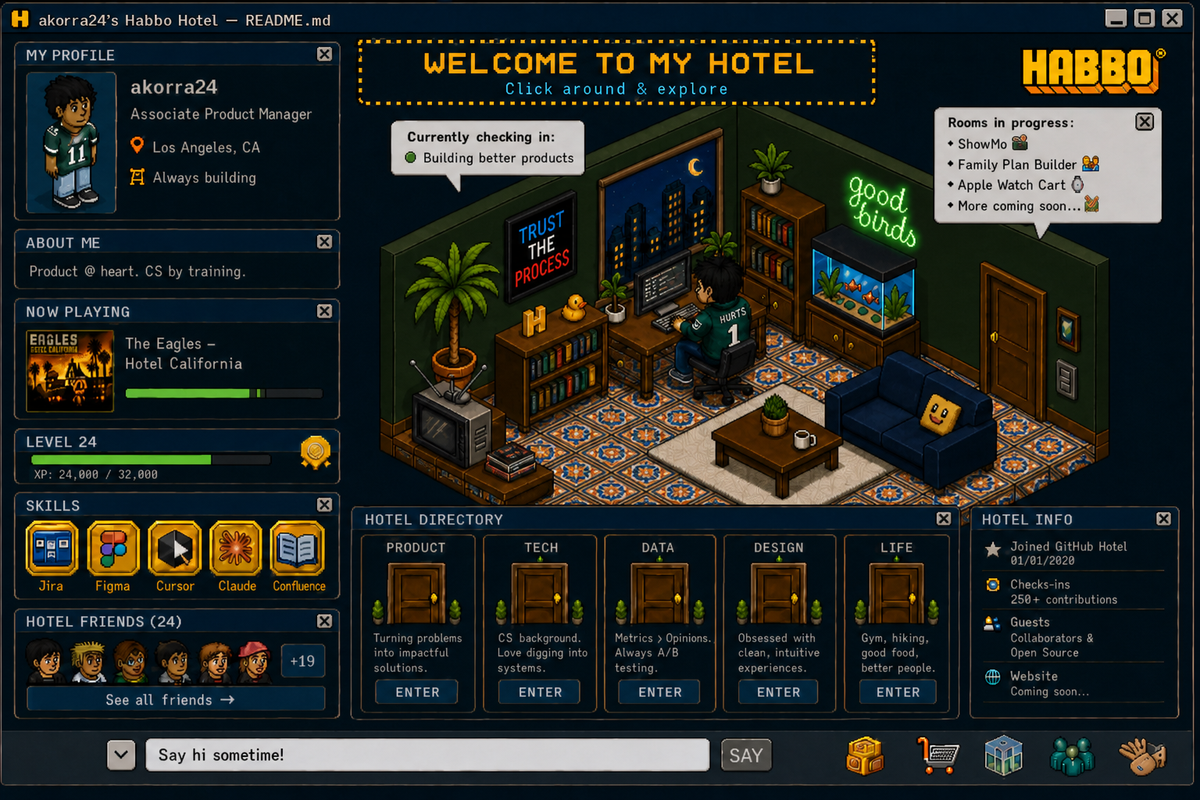
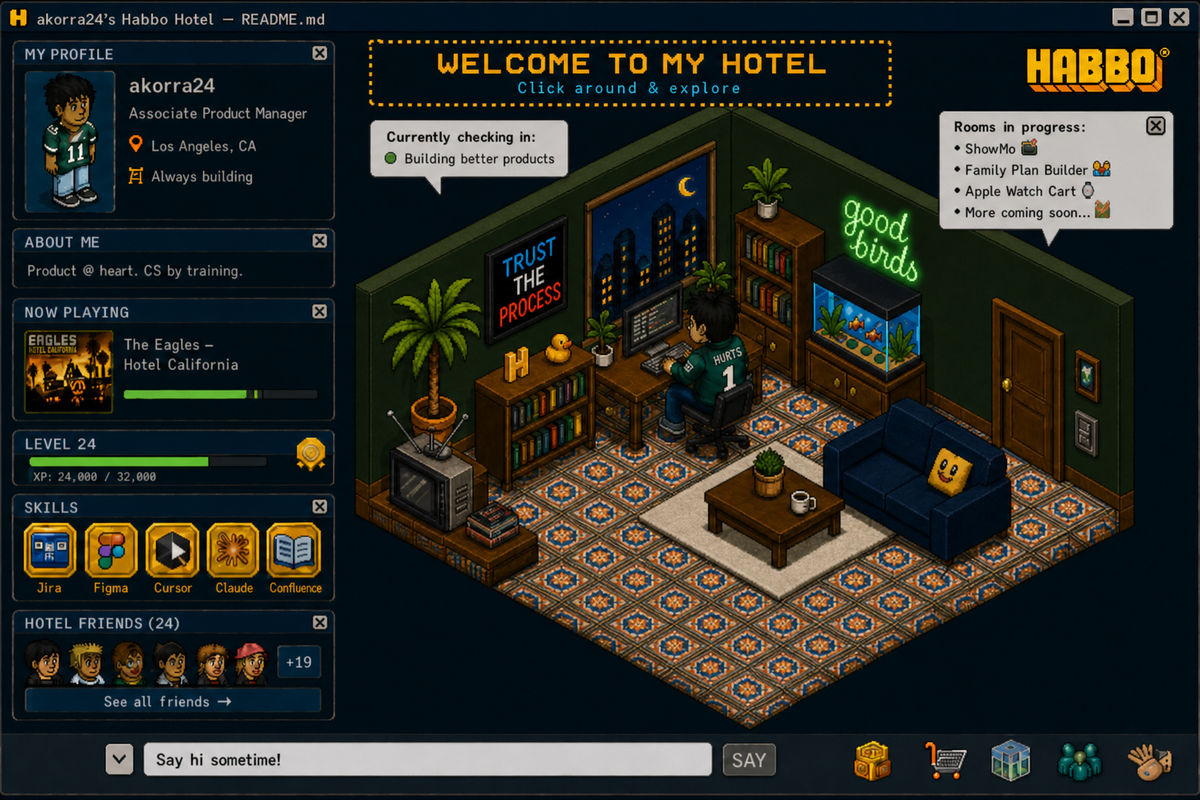
Trim the hotel profile to Product, Tech, Design, and Life rooms.

diff --git a/README.md b/README.md
@@ -1,7 +1,6 @@
 <!--
   akorra24's Habbo Hotel — GitHub profile README
   The unique visual is the full client screenshot in hotel-header.png.
-  Everything below is the clickable hotel: doors, rooms, guestbook.
 -->
 
 <p align="center">
@@ -16,7 +15,7 @@
 
 <table width="100%">
   <tr>
-    <td valign="top" width="20%" align="center">
+    <td valign="top" width="25%" align="center">
 
 <a href="#product-room"><img src="./assets/product-room.png" width="100%" alt="Product door" /></a>
 
@@ -25,7 +24,7 @@ Turning messy problems into simple, useful experiences.
 <a href="#product-room"><code>ENTER</code></a>
 
     </td>
-    <td valign="top" width="20%" align="center">
+    <td valign="top" width="25%" align="center">
 
 <a href="#tech-room"><img src="./assets/tech-room.png" width="100%" alt="Tech door" /></a>
 
@@ -34,16 +33,7 @@ CS background. I like knowing how the thing actually works.
 <a href="#tech-room"><code>ENTER</code></a>
 
     </td>
-    <td valign="top" width="20%" align="center">
-
-<a href="#data-room"><img src="./assets/data-room.png" width="100%" alt="Data door" /></a>
-
-Metrics &gt; opinions. Measure, learn, iterate.
-
-<a href="#data-room"><code>ENTER</code></a>
-
-    </td>
-    <td valign="top" width="20%" align="center">
+    <td valign="top" width="25%" align="center">
 
 <a href="#design-room"><img src="./assets/design-room.png" width="100%" alt="Design door" /></a>
 
@@ -52,7 +42,7 @@ Obsessed with clean, intuitive product experiences.
 <a href="#design-room"><code>ENTER</code></a>
 
     </td>
-    <td valign="top" width="20%" align="center">
+    <td valign="top" width="25%" align="center">
 
 <a href="#life-room"><img src="./assets/life-room.png" width="100%" alt="Life door" /></a>
 
@@ -88,22 +78,6 @@ Product strategy. Consumer eCommerce. Discovery → delivery. Experimentation. U
 
 I came into product through computer science, so I'm happiest when I can understand both the user problem and what is happening underneath the interface.
 
-**Inventory**
-
-`[ CODE ]` `[ APIs ]` `[ FIGMA ]` `[ DATA ]` `[ GIT ]` `[ AI ]`
-
-Software fundamentals, frontend systems, Git/GitHub, rapid prototyping, AI-assisted development, and sitting with engineering until the thing actually works.
-
----
-
-<a name="data-room"></a>
-
-## DATA ROOM
-
-`Metrics > opinions.`
-
-Funnels, conversion, behavioral analytics. Turn that into a hypothesis, a test, and a decision. Launch is when the learning starts — not when the argument ends.
-
 ---
 
 <a name="design-room"></a>
@@ -116,31 +90,10 @@ UX, wireframes, Figma, responsive experiences, prototypes — and a lot of time 
 
 ---
 
-<a name="projects-room"></a>
-
-## PROJECT ROOMS
-
-Rooms in progress.
-
-**ShowMo** — What should I watch next? Discover movies and shows through your own taste and people you trust. `under construction`
-
-**Family Plan Builder** — Making multi-line / family plan choices feel obvious.
-
-**Apple Watch Cart** — Purchase flow work across devices, cart, and checkout.
-
-<table>
-  <tr>
-    <td><a href="https://github.com/akorra24/showmo"><code>[ SHOWMO REPO ]</code></a></td>
-    <td><code>[ LIVE DEMO — soon ]</code></td>
-  </tr>
-</table>
-
----
-
-## ACHIEVEMENTS
+## PROGRAMS
 
 <p align="center">
-  <img src="./assets/achievements.png" width="100%" alt="Skills: Jira, Figma, Cursor, Claude, Confluence" />
+  <img src="./assets/achievements.png" width="100%" alt="Programs: Jira, Figma, Cursor, Claude, Confluence" />
 </p>
 
 ---
@@ -161,63 +114,6 @@ Hotel radio changes frequently.</p>
 ## LIFE ROOM
 
 Philadelphia sports. Fantasy football. Hiking. A fishtank. A 2000s BMW. Side projects and random builds that seemed interesting at 1am.
-
----
-
-## HOTEL INFO
-
-<table width="100%">
-  <tr>
-    <td valign="top" width="40%" align="center">
-
-<img src="./assets/hotel-info.png" width="100%" alt="Hotel info" />
-
-    </td>
-    <td valign="top" width="60%" align="center">
-
-**Hotel Friends**
-
-<img src="./assets/hotel-friends.png" width="100%" alt="Hotel friends" />
-
-    </td>
-  </tr>
-</table>
-
-<details>
-<summary>Open Hotel Info</summary>
-
-**Guest:** akorra24
-
-**Class:** Associate Product Manager / Builder
-
-**Location:** Los Angeles, CA
-
-**Motto:** Always building.
-
-**Mission:** Build useful things and understand why they work.
-
-</details>
-
-<details>
-<summary>Hotel Directory Help</summary>
-
-Click any door in the Hotel Directory to jump to that room.
-
-</details>
-
----
-
-## GUESTBOOK
-
-Made it this far? Say hi.
-
-<table>
-  <tr>
-    <td><a href="https://github.com/akorra24"><code>[ VIEW PROFILE ]</code></a></td>
-    <td><a href="https://www.linkedin.com/in/YOUR_HANDLE"><code>[ SEND MESSAGE ]</code></a></td>
-    <td><a href="mailto:YOUR_EMAIL"><code>[ EMAIL FRONT DESK ]</code></a></td>
-  </tr>
-</table>
 
 ---
 
